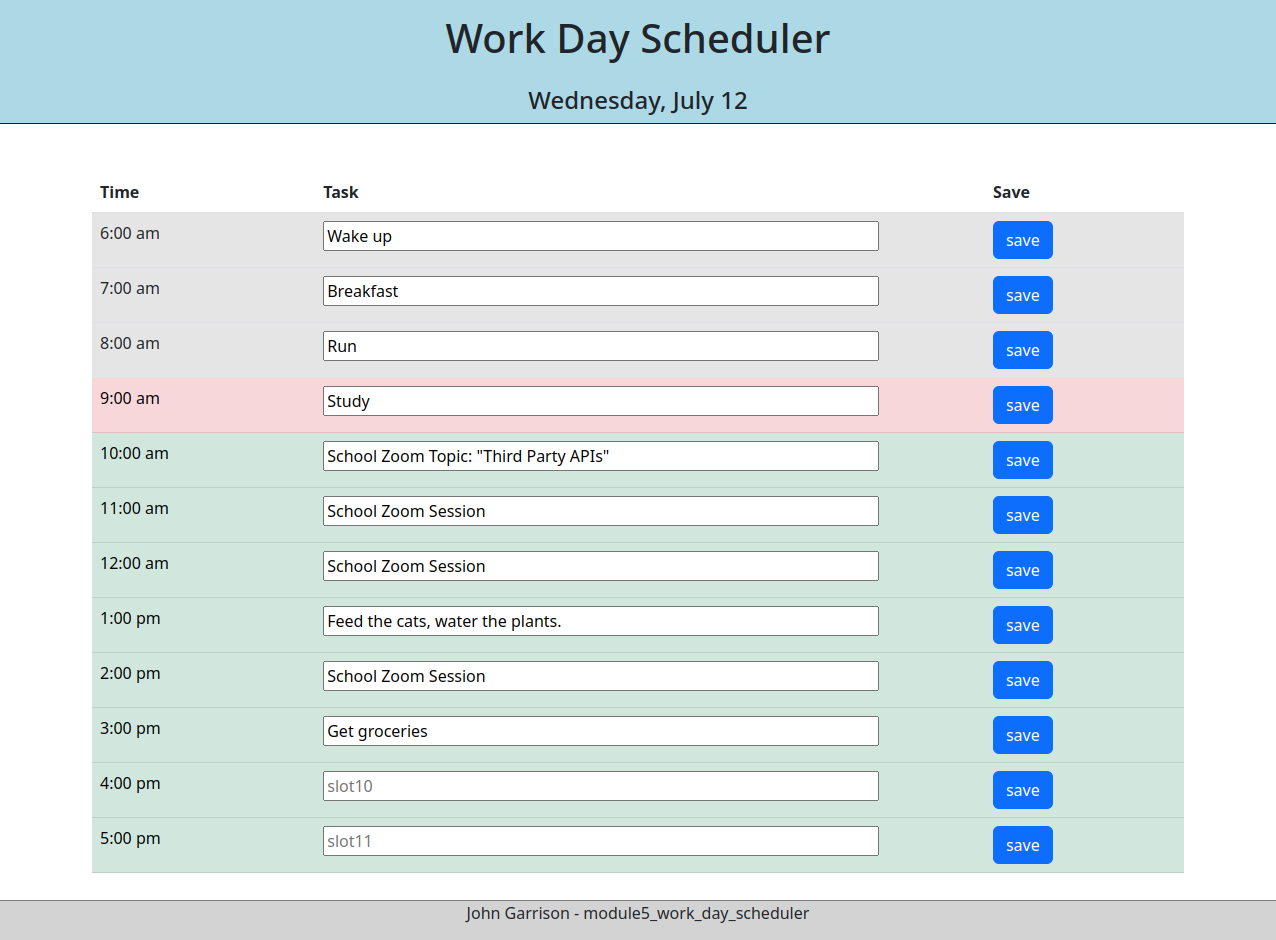
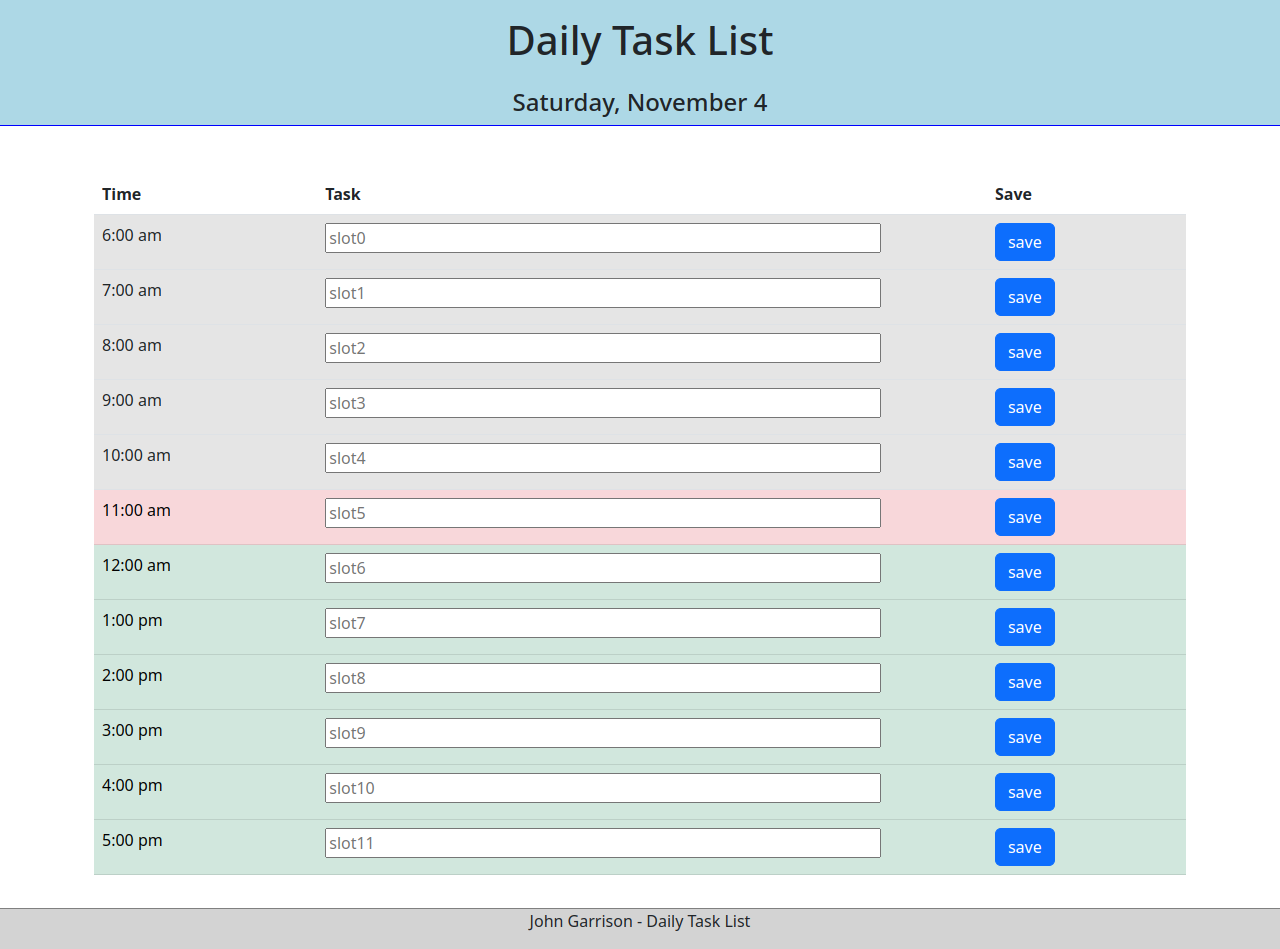
rewrote description and updated screenshot

diff --git a/README.md b/README.md
@@ -1,6 +1,9 @@
-# module_5_work_day_scheduler
+# Daily Task List
 ## Description
-A day-calendar for your workday covering day-shift hours of 6am to 5pm.
+Plan your day better with this simple website.
+From the waking hours of the day, keep track of the things you need to accomplish.
+
+#### Features
 The time-table is color-coded based on current time of day using dayjs library.
 Each task added to the table can be saved to browser's local storage.
 
